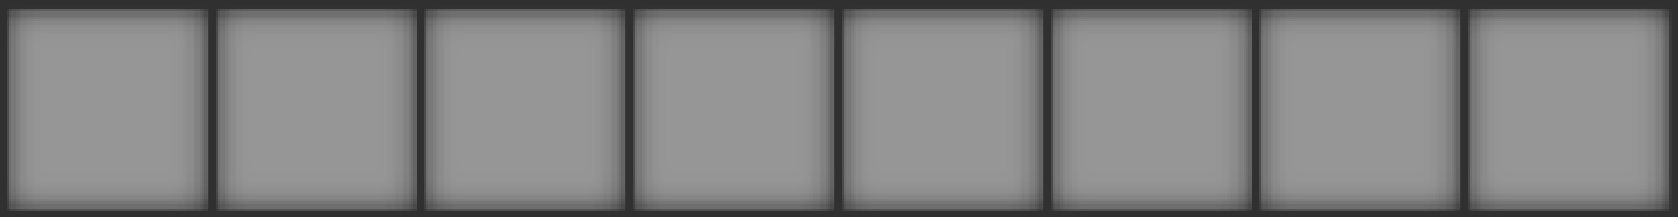
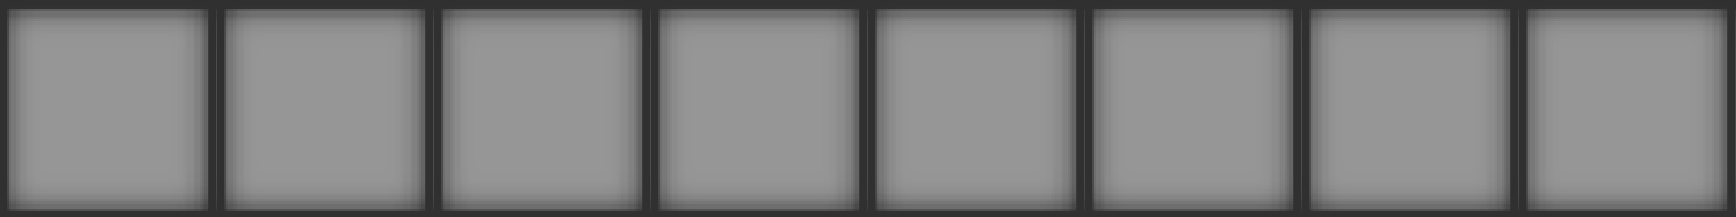
now you can see your inventory and what you have picked up

diff --git a/SE_project/core/src/main/kotlin/com/kkdgames/core/screens/GameScreen.kt b/SE_project/core/src/main/kotlin/com/kkdgames/core/screens/GameScreen.kt
@@ -19,7 +19,6 @@ import com.kkdgames.core.loot.heals.SaladFactory
 import com.kkdgames.core.loot.upgrades.CockroachBodyFactory
 import com.kkdgames.core.loot.weapons.CockroachLegFactory
 import com.kkdgames.core.loot.weapons.DrillFactory
-import com.kkdgames.core.map.Direction
 import com.kkdgames.core.map.LevelDescription
 import com.kkdgames.core.mobs.Mob
 import com.kkdgames.core.mobs.cockroach.CockroachFactory
@@ -52,11 +51,14 @@ class GameScreen(private val game: MainGame, private val assets: Assets) : Scree
 
     private val backgroundTexture: Texture = assets.manager.get(Assets.background1)
     private val inventoryTexture: Texture = assets.manager.get(Assets.inventory)
+    private val inventoryHighlightedTexture: Texture = assets.manager.get(Assets.inventoryHighlight)
 
     private val lowerGate: Gate
     private val upperGate: Gate
     private val leftGate: Gate
     private val rightGate: Gate
+
+    private var currentlySelectedItem = 0
 
     private val saladFactory = SaladFactory(
         assets = assets,
@@ -317,7 +319,54 @@ class GameScreen(private val game: MainGame, private val assets: Assets) : Scree
                     viewportHeight / 2 - (inventoryTexture.height / 2F),
                 )
 
+                game.batch.draw(
+                    inventoryHighlightedTexture,
+                    viewportWidth / 2 - (inventoryTexture.width / 2F) + inventoryHighlightedTexture.width * currentlySelectedItem,
+                    viewportHeight / 2 - (inventoryTexture.height / 2F),
+                )
+
+                var i = 0
+                player.inventory.forEach {
+                    game.batch.draw(
+                        it.getTexture(),
+                        viewportWidth / 2 - (inventoryTexture.width / 2F) + inventoryHighlightedTexture.width * i,
+                        viewportHeight / 2 - (inventoryTexture.height / 2F),
+                    )
+                    i++
+                }
+
                 game.batch.end()
+
+                if (Gdx.input.isKeyPressed(Input.Keys.NUM_1)) {
+                    currentlySelectedItem = 0
+                }
+                if (Gdx.input.isKeyPressed(Input.Keys.NUM_2)) {
+                    currentlySelectedItem = 1
+                }
+                if (Gdx.input.isKeyPressed(Input.Keys.NUM_3)) {
+                    currentlySelectedItem = 2
+                }
+                if (Gdx.input.isKeyPressed(Input.Keys.NUM_4)) {
+                    currentlySelectedItem = 3
+                }
+                if (Gdx.input.isKeyPressed(Input.Keys.NUM_5)) {
+                    currentlySelectedItem = 4
+                }
+                if (Gdx.input.isKeyPressed(Input.Keys.NUM_6)) {
+                    currentlySelectedItem = 5
+                }
+                if (Gdx.input.isKeyPressed(Input.Keys.NUM_7)) {
+                    currentlySelectedItem = 6
+                }
+                if (Gdx.input.isKeyPressed(Input.Keys.NUM_8)) {
+                    currentlySelectedItem = 7
+                }
+
+                if (Gdx.input.isKeyPressed(Input.Keys.U)) {
+                    if (player.inventory.size >= currentlySelectedItem) {
+                        player.inventory[currentlySelectedItem].equip()
+                    }
+                }
 
                 if (Gdx.input.isKeyPressed(Input.Keys.BACKSPACE)) {
                     resume()

diff --git a/SE_project/core/src/main/kotlin/com/kkdgames/core/util/Assets.kt b/SE_project/core/src/main/kotlin/com/kkdgames/core/util/Assets.kt
@@ -12,8 +12,9 @@ class Assets {
         manager.load(playerFirstStageTexture)
         manager.load(playerTexture)
         manager.load(background1)
-        manager.load(inventory)
         manager.load(background2)
+        manager.load(inventory)
+        manager.load(inventoryHighlight)
         manager.load(backgroundMenu)
         manager.load(cockroachTexture)
         manager.load(wayTexture)
@@ -99,6 +100,11 @@ class Assets {
 
         val inventory = AssetDescriptor(
             "backgrounds/inventory.png",
+            Texture::class.java
+        )
+
+        val inventoryHighlight = AssetDescriptor(
+            "backgrounds/inventory-highlighted.png",
             Texture::class.java
         )
 

diff --git a/SE_project/core/src/main/kotlin/com/kkdgames/core/loot/Loot.kt b/SE_project/core/src/main/kotlin/com/kkdgames/core/loot/Loot.kt
@@ -6,8 +6,10 @@ import com.badlogic.gdx.math.Rectangle
 abstract class Loot: Rectangle() {
     var taken: Boolean = false
 
-    abstract fun equip()
+    abstract fun equip(): Boolean
     abstract fun unequip()
+    abstract fun getTexture(): Texture
+
     fun getCenterX(): Float {
         return x + getTexture().width / 2
     }
@@ -15,5 +17,4 @@ abstract class Loot: Rectangle() {
     fun getCenterY(): Float {
         return y + getTexture().height / 2
     }
-    abstract fun getTexture(): Texture
 }

diff --git a/SE_project/core/src/main/kotlin/com/kkdgames/core/loot/upgrades/CockroachBody.kt b/SE_project/core/src/main/kotlin/com/kkdgames/core/loot/upgrades/CockroachBody.kt
@@ -12,7 +12,7 @@ class CockroachBody(
         this.x = x
         this.y = y
     }
-    override fun equip() {
+    override fun equip(): Boolean {
         TODO("Not yet implemented")
     }
 

diff --git a/SE_project/core/src/main/kotlin/com/kkdgames/core/loot/weapons/CockroachLeg.kt b/SE_project/core/src/main/kotlin/com/kkdgames/core/loot/weapons/CockroachLeg.kt
@@ -12,7 +12,7 @@ class CockroachLeg(
         this.x = x
         this.y = y
     }
-    override fun equip() {
+    override fun equip(): Boolean {
         TODO("Not yet implemented")
     }
 

diff --git a/SE_project/core/src/main/kotlin/com/kkdgames/core/loot/weapons/Drill.kt b/SE_project/core/src/main/kotlin/com/kkdgames/core/loot/weapons/Drill.kt
@@ -12,7 +12,7 @@ class Drill(
         this.x = x
         this.y = y
     }
-    override fun equip() {
+    override fun equip(): Boolean {
         TODO("Not yet implemented")
     }
 

diff --git a/SE_project/core/src/main/kotlin/com/kkdgames/core/loot/heals/Salad.kt b/SE_project/core/src/main/kotlin/com/kkdgames/core/loot/heals/Salad.kt
@@ -13,7 +13,7 @@ class Salad(
         this.y = y
     }
 
-    override fun equip() {
+    override fun equip(): Boolean {
         TODO("Not yet implemented")
     }
 

diff --git a/SE_project/core/src/main/java/com/kkdgames/core/models/Player.java b/SE_project/core/src/main/java/com/kkdgames/core/models/Player.java
@@ -122,7 +122,7 @@ public class Player extends Actor {
             }
         }
         if (Gdx.input.isKeyPressed(Input.Keys.E)) {
-            if (closestLoot != null) {
+            if (closestLoot != null && !closestLoot.getTaken()) {
                 float distToLootX = getCenterX() - closestLoot.getCenterX();
                 float distToLootY = getCenterY() - closestLoot.getCenterY();
                 float absDistToTargetY = distToLootY * distToLootY;
